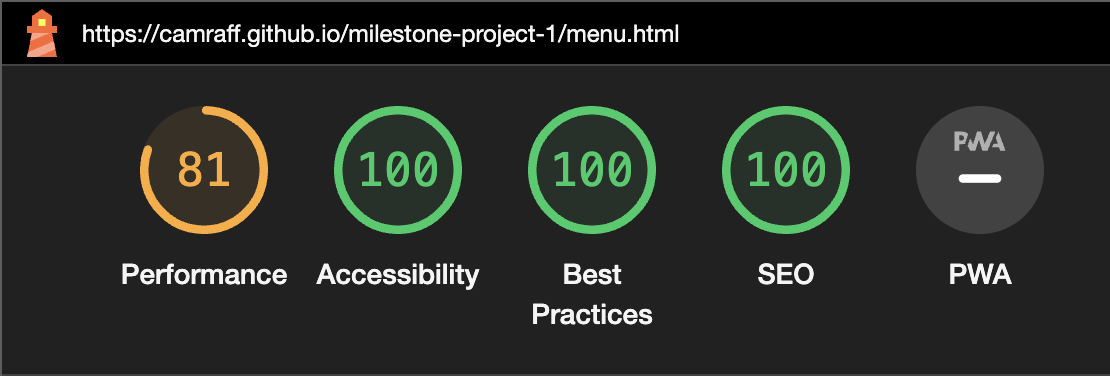
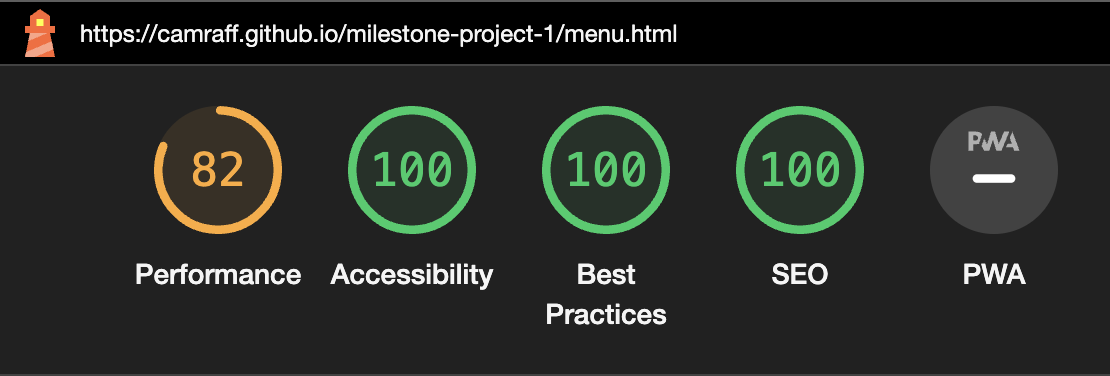
finished testing section of README

diff --git a/merch.html b/merch.html
@@ -58,7 +58,7 @@
             <div id="merch-avail">
                 <h2>Merchandise!</h2>
                 <p>Check out our latest BAR<span>CA</span> merchandise! All merchandise is available, please come to the
-                    bar if you wish to make a purchase.</p>
+                    bar if you wish to make a purchase. Merchandise is always changing, so come back regularly to see what is new!</p>
             </div>
             <div class="merch">
                 <div class="hands-wrap">

diff --git a/README.md b/README.md
@@ -52,6 +52,12 @@ For my first Milstone Project on my course through Code Institute via UCP (Unive
 
     - [Automated](#automated)
 
+        - [W3 Validator - HTML](#w3-validator---html)
+
+        - [W3 Validator - CSS](#w3-validator---css)
+
+        - [Lighthouse](#lighthouse)
+
 - [Credits](#credits)
 
     - [Outside Code](#outside-code)
@@ -94,13 +100,13 @@ The below Wireframes were created with responsive design in mind. The main focus
 
 This is the initial mock-up for all 3 pages on a mobile device.
 
-![mobile-wireframe](assets/images/wireframes/mobile-wireframe.png/)
+![mobile-wireframe](assets/images/wireframes/mobile-wireframe.png)
 
 #### Tablet
 
 This is an initial mock-up for the view of the merch page on a tablet. My vision for a tablet view would be to have the Home and Menu page look the same as on mobile, so with the only real changes being to the Merch page, I created a mock-up for that.
 
-![tablet-wireframe](assets/images/wireframes/tablet-wireframe.png/)
+![tablet-wireframe](assets/images/wireframes/tablet-wireframe.png)
 
 #### Desktop
 
@@ -108,21 +114,21 @@ Below are the mock-ups for each individual page when viewed on a desktop/laptop 
 
 - ##### Home page
 
-![desktop-home-wireframe](assets/images/wireframes/desktop-home-wireframe.png/)
+![desktop-home-wireframe](assets/images/wireframes/desktop-home-wireframe.png)
 
 - ##### Merch page
 
-![desktop-merch-wireframe](assets/images/wireframes/desktop-merch-wireframe.png/)
+![desktop-merch-wireframe](assets/images/wireframes/desktop-merch-wireframe.png)
 
 - ##### Menu page
 
-![desktop-menu-wireframe](assets/images/wireframes/desktop-menu-fireframe.png/)
+![desktop-menu-wireframe](assets/images/wireframes/desktop-menu-fireframe.png)
 
 ### Color Scheme
 
 For the color scheme of the website, I decided to go with the original color palette from the logo you can see below.
 
-![barca-logo](assets/images/barca-logo.jpg/)
+<img src="assets/images/barca-logo.jpg" alt="Barca Logo" width="500">
 
 I chose the green color for the body text, as well as the navigation menu, and decided to make it so that when you hover over the navigation links, they change to red. This is in keeping with the original logo with it being green to begin with, and then red at the end. I decided to also maintain the black backround, and this allows the text to stand out. 
 
@@ -140,13 +146,13 @@ After spending some time looking over some fonts, I decided to go with [Merriwea
 
 I chose Merriweather for the body text font as I think it has a very friendly and inviting vibe, and I think with the color being a shade of green, some fonts wouldn't look quite as nice in this color, however Merriweather does. 
 
-![merriweather](assets/images/merriweather-example.png/)
+![merriweather](assets/images/merriweather-example.png)
 
 - #### Anton
 
 I chose Anton for the header and navigation text as I felt that this font had a similar kind of sharpness too it as can be seen in the image above where I chose the color scheme from.
 
-![anton](assets/images/anton-example.png/)
+![anton](assets/images/anton-example.png)
 
 ### Images
 
@@ -281,11 +287,11 @@ In order to rectify these issues, I had to remove the Media Qeurys which were ne
 ![w3c-css-final](assets/images/testing/w3c-css/w3c-css-final.png)
 
 
-### Lighthouse
+#### Lighthouse
 
 As another method of automatic testing, I ran each of my three pages though Lighthouse on Google Dev Tools. Lighthouse tests 4 main areas of your site, them being its Performance, its Accessibility, how well it conforms with Best Practices and also how well it would perform when being searched for in a browser, its Search Engine Optimization (SEO). The PWA section is being depreciated by Lighthouse in future releases, so there are no values given here. The following results were acquired when the initial tests were ran:
 
-#### Desktop
+##### Desktop
 
 - Home
 
@@ -299,7 +305,7 @@ As another method of automatic testing, I ran each of my three pages though Ligh
 
 ![merch-desk-first](assets/images/testing/Lighthouse/merch-desktop-first.png)
 
-#### Mobile
+##### Mobile
 
 - Home
 
@@ -319,6 +325,8 @@ There was an issue on the Home page regarding Best Practices relating to Third P
 
 Following on from changes made to the image sizes, iframes, social media links and metadata, the results for each page were as follows:
 
+##### Desktop
+
 - Home
 
 ![home-desk-final](assets/images/testing/Lighthouse/home-desk-final.png)
@@ -330,6 +338,175 @@ Following on from changes made to the image sizes, iframes, social media links a
 - Merch
 
 ![menu-desk-final](assets/images/testing/Lighthouse/merch-desk-final.png)
+
+##### Mobile
+
+- Home 
+
+![home-mobile-final](assets/images/testing/Lighthouse/home-mobile-final.png)
+
+- Menu
+
+![menu-mobile-final](assets/images/testing/Lighthouse/menu-mobile-final.png)
+
+- Merch 
+
+![merch-mobile-final](assets/images/testing/Lighthouse/merch-mobile-final.png)
+
+As you can see from the changes made, the performance of the website increased on all pages. The accessability on all pages increased to 100 on both desktop and mobile views, along with SEO. Best practices increased to 100 on both the Menu and Merch page, and the Home page maintained the score of 74 and 78 for the desktop and mobile views respectively (third party cookies issue).
+
+### Manual
+
+#### User Stories
+
+**First Time Visitor Goals**
+
+| Goals | Outcome |
+| ----- | ----- |
+| I want to understand what the situation with Barca Tynemouth is, like opening times and location. | Upon visiting the Home page, opening times and location information are visible. |
+| I want to get a feel for the vibe of the venue and the menu. | Upon visiting the site and looking at the graphics, colours and Menu page, I get an understanding of the kind of place Barca is. |
+| I am interested in purchasing merchandise if possible. | Upon visiting the site I can see a Merch section in the navigation bar. |
+| I want to be able to access and navigate the website easily regardless of what device I choose to use. | I am able to access the website on my phone and my laptop, and the site looks good on both. |
+
+**Returning Visitor Goals**
+
+| Goals | Outcome |
+| ----- | ----- |
+| I want to see if there are any new events or merchandise on the site. | When visiting the Merch page, you get told that merchandise is updated regularly, so I should check back soon to see if there is anything new. |
+
+**Frequent Visitor Goals**
+
+| Goals | Outcome |
+| ----- | ----- |
+| I want the option to reachout via socials to get updates on events and merchandise. | There are social network links in the footer of the page meaning I can view and get in touch if I please! |
+
+#### Full Site Testing
+
+This site was built using VSCode as my chosen IDE. The majority of the development was undertaken on a Windows laptop before upgrading to a MacBook where the final changes and majority of testing were done.
+
+The devices I used to test my site throughout development and upon completion are:
+
+- Windows laptop - ASUS ROG Gaming Laptop, 17.3".
+
+- MacBook Air 15", M2.
+
+- Mobile - Apple iPhone 15 Pro Max.
+
+I tested the site using three different browsers on both the laptop and mobile, them being Safari, Google Chrome, and Mozilla Firefox. The site worked as expected on all three browsers on both platforms, and the desired styling was displayed. The laptop and mobile views are below for each browser:
+
+- Safari
+
+    - Laptop 
+
+    <img src="assets/images/testing/safari-laptop.png" alt="Safari Laptop Screenshot" width="800">
+
+    - Mobile 
+
+    <img src="assets/images/testing/safari-mobile.PNG" alt="Safari Mobile Screenshot" width="300">
+
+- Chrome
+
+    - Laptop
+
+    <img src="assets/images/testing/chrome-laptop.png" alt="Chrome Laptop Screenshot" width="800">
+
+    - Mobile
+
+    <img src="assets/images/testing/chrome-mobile.PNG" alt="Chrome Laptop Screenshot" width="300">
+
+
+- Firefox
+
+    - Laptop
+
+    <img src="assets/images/testing/firefox-laptop.png" alt="Firefox Laptop Screenshot" width="800">
+
+    - Mobile
+
+    <img src="assets/images/testing/firefox-mobile.PNG" alt="Firefox Mobile Screenshot" width="300">
+
+Below are some screenshots taken how the pages responds when the browser size is manipulated on a laptop:
+
+- Home
+
+    - Large
+
+    <img src="assets/images/testing/home-large.png" alt="Home Large" width="800">
+
+    - Medium
+
+    <img src="assets/images/testing/home-medium.png" alt="Home Medium" width="800">
+
+    - Small
+
+    <img src="assets/images/testing/home-small.png" alt="Home Small" width="800">
+
+- Menu
+
+    - Large
+
+    <img src="assets/images/testing/menu-large.png" alt="Menu Large" width="800">
+
+    - Medium
+
+    <img src="assets/images/testing/menu-medium.png" alt="Menu Medium" width="800">
+
+    - Small 
+
+    <img src="assets/images/testing/menu-small.png" alt="Menu Small" width="800">
+
+- Merch
+
+    - Large
+
+    <img src="assets/images/testing/merch-large.png" alt="Merch Large" width="800">
+
+    - Medium
+
+    <img src="assets/images/testing/merch-medium.png" alt="Merch Medium" width="800">
+
+    - Small
+
+    <img src="assets/images/testing/merch-small.png" alt="Merch Small" width="800">
+
+#### Feature Testing
+
+There are features that differ between each page, however, the Header and the Footer remained the same across all 3 pages, with hover effects, active effects and navigational links. The Home page was designed so the layout would stay the same across all platforms. The Menu page had CSS implemented so that, when on a larger screen, the images and descriptions would alternate sides between drinks. The Merch page had CSS implemented so that, when on a larger screen, you hover over an image and the description and price of the item appear. Testing for all of these features were as follows:
+
+**Header**
+
+| Feature | Expectation | Test Performed | Outcome | 
+| ----- | ----- | ----- | ----- | 
+| Barca Title | Navigate back to home page | Clicked on all pages | Refreshed on the Home page and returned to the Home page on all others |
+| Navigation Links | Take the user to the desired page | Clicked on all pages | Went to the desired page |
+| Nav Hover Effect | Menu items will change color | Hovered over each option | Color changed as desired |
+| Active Effect | The page you're on will be underlined | Accessed each page | The page you're currently on is underlined in the Nav bar |
+
+**Footer**
+
+| Feature | Expectation | Test Performed | Outcome |
+| ----- | ----- | ----- | ----- |
+| Footer Links | Take you to desired social media platform| Clicked link | Taken to the platform I desired |
+| Footer Hover | Icon will change color | Hovered over each icon | Icon color changed as desired | 
+
+**Home Page**
+
+| Feature | Expectation | Test Performed | Outcome |
+| ----- | ----- | ----- | ----- |
+| Responsive Content | Content will respond and be viewable on different devices | Opened page on different sized displays | Page responded as desired | 
+
+**Menu Page**
+
+| Feature | Expectation | Test Performed | Outcome | 
+| ----- | ----- | ----- | ----- |
+| Responsive Content | Content will alternate depending on display size | Opened the page on different sized displays | Content alternated (img left then img right) as you scrolled on a larger display, and rearranged vertically on a smaller display, as desired |
+
+**Merch Page**
+
+| Feature | Expectation | Test Performed | Outcome |
+| ----- | ----- | ----- | ----- |
+| Hover Effect | Description and price will appear on hover when on a laptop/desktop view | Hovered over images | Description and prices appeared as desired |
+| Responsive Content | Content will shift based on display size | Opened the page on different sized displays | Content shifted from horizontal on a large display to vertical on a smaller display, as desired |  
 
 ---
 
